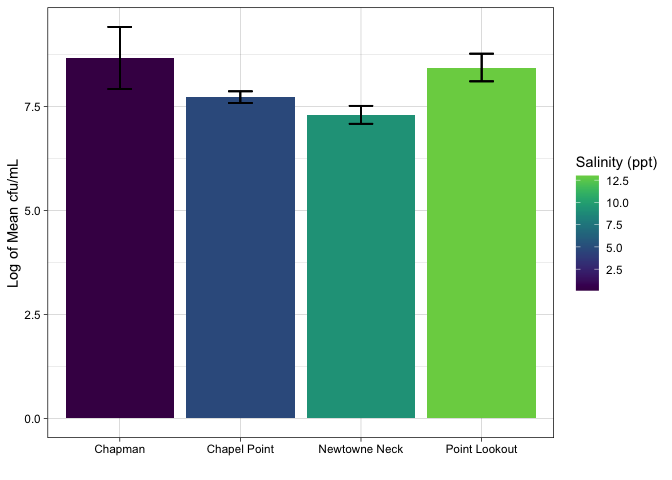
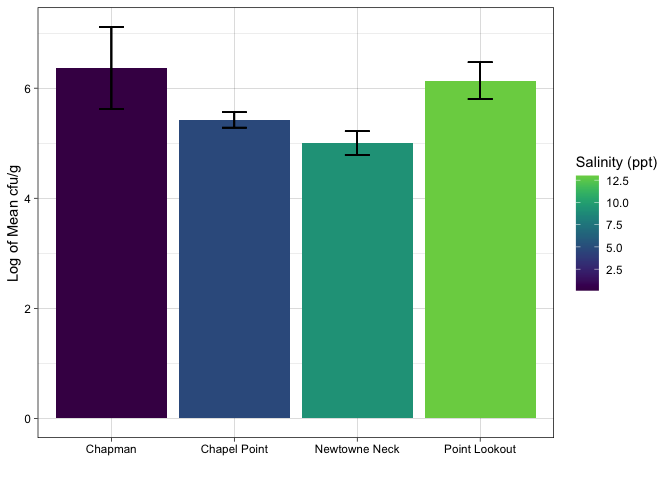
knit

diff --git a/plate_analysis.md b/plate_analysis.md
@@ -27,7 +27,7 @@ ggplot(averages, aes(location, `mean(log_cfu)`, fill = salinity_ppt)) +
   theme_linedraw() +
   scale_x_discrete(labels=c("CM" = "Chapman", "CP" = "Chapel Point",
                               "NN" = "Newtowne Neck", "PL" = "Point Lookout")) +
-  labs(x = "", y = "Log of Mean cfu/mL", fill = "Salinity (ppt)") +
+  labs(x = "", y = "Log of Mean cfu/g", fill = "Salinity (ppt)") +
   scale_fill_viridis(end = 0.8)
 ```
 
